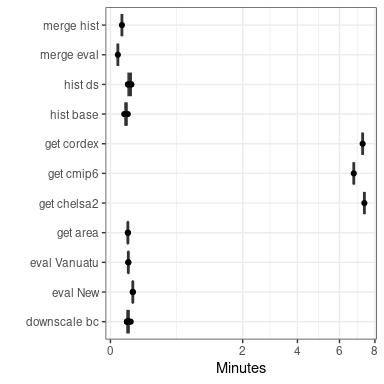
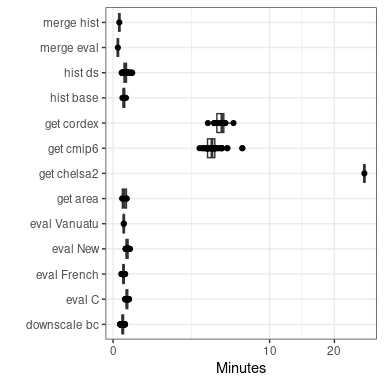
DownClim 0.1.0.9034: few fixes to be shared with Thomas

diff --git a/scripts/get_chelsa2.py b/scripts/get_chelsa2.py
@@ -98,9 +98,9 @@ areas_names = list(map(lambda x: x.NAME_0.values[0], areas))
 
 base_years = list(map(int, base_years.split("-")))
 years = list(range(base_years[0], base_years[1]+1))
-if "pr" in variables and years[1] >= 2013:
+if "pr" in variables and base_years[1] >= 2013:
         years.remove(2013) # issue with the tif
-if "pr" in variables and years[1] >= 2016:
+if "pr" in variables and base_years[1] >= 2016:
         years.remove(2016) # issue with the tif                
 
 if time_frequency == "mon":

diff --git a/README.md b/README.md
@@ -1,6 +1,6 @@
 # DownClim - Downscale Climate Projections
 Sylvain Schmitt -
-Mar 19, 2024
+Mar 27, 2024
 
 - [Installation](#installation)
 - [Credentials](#credentials)
@@ -288,6 +288,4 @@ mamab activate dev-dc
 
 # Results
 
-![](README_files/figure-commonmark/hists-1.png)
-
-![](README_files/figure-commonmark/eval-1.png)
+![](README_files/figure-commonmark/eval2-1.png)

diff --git a/NEWS.md b/NEWS.md
@@ -1,3 +1,4 @@
+-   DownClim 0.1.0.9034: few fixes to be shared with Thomas
 -   DownClim 0.1.0.9033: lighter and faster wkl with aggregation fused to data retrieval
 -   DownClim 0.1.0.9032: cordex with wget
 -   DownClim 0.1.0.9031: eval_metrics merged and working, full pipeline milestone 1
